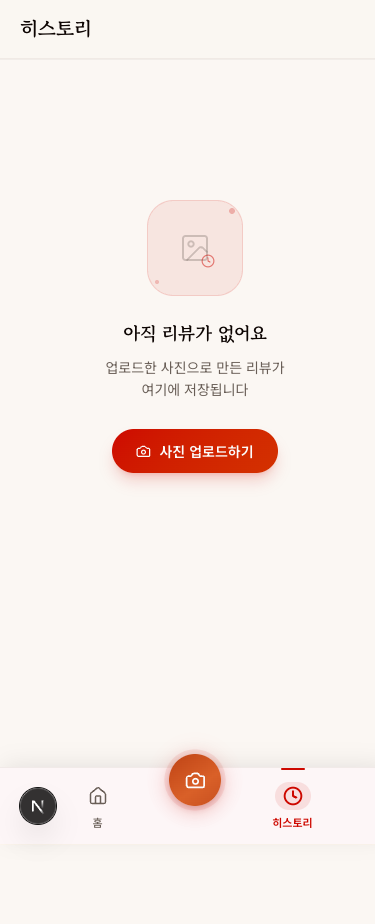
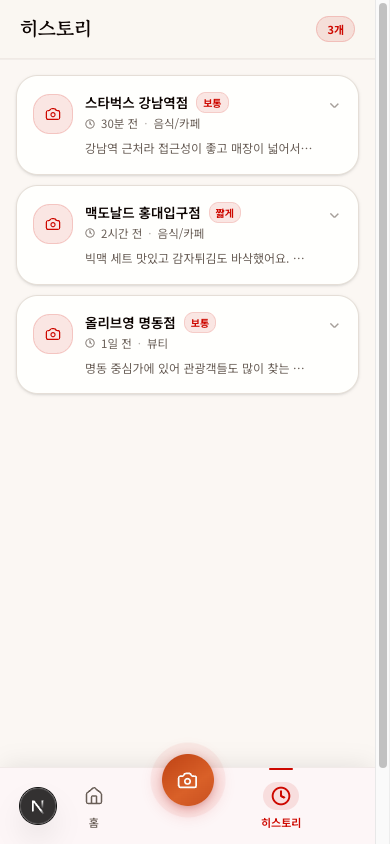
docs: SNS 해시태그 기능 반영하여 README 및 스크린샷 업데이트
- README에 SNS 해시태그 자동 생성 기능 설명 추가 (핵심 기능 3번)
- 서비스 흐름, 목적, 핵심 가치 항목에 해시태그 관련 내용 반영
- 홈·처리·결과·히스토리 화면 스크린샷 최신 버전으로 교체

diff --git a/README.md b/README.md
@@ -1,6 +1,6 @@
 # SnapReview
 
-사진 한 장으로 한국어 리뷰 초안을 생성하는 모바일 우선 PWA입니다. 사용자는 음식, 공간, 제품, 소품 등 어떤 이미지든 업로드할 수 있고, SnapReview는 이미지를 분석해 짧게, 보통, 상세 3가지 길이의 리뷰를 바로 복사 가능한 형태로 제공합니다.
+사진 한 장으로 한국어 리뷰 초안을 생성하는 모바일 우선 PWA입니다. 음식, 공간, 제품, 소품 등 어떤 이미지든 업로드하면 AI가 이미지를 분석해 짧게·보통·상세 3가지 길이의 리뷰와 SNS 해시태그를 즉시 제공합니다.
 
 ## 목차
 
@@ -20,19 +20,21 @@
 
 ### 기획 의도
 
-리뷰 작성은 반복적이지만, 사진 속 핵심 포인트를 자연스럽게 문장으로 옮기는 일은 생각보다 번거롭습니다. SnapReview는 이 지점을 해결하기 위해 만들어졌습니다. 사용자는 사진만 업로드하면 되고, 서비스는 이미지의 대상, 특징, 분위기를 읽어 각 플랫폼에 붙여넣기 쉬운 한국어 리뷰를 생성합니다.
+리뷰 작성은 반복적이지만, 사진 속 핵심 포인트를 자연스럽게 문장으로 옮기는 일은 생각보다 번거롭습니다. SnapReview는 이 지점을 해결하기 위해 만들어졌습니다. 사용자는 사진만 업로드하면 되고, 서비스는 이미지의 대상·특징·분위기를 읽어 각 플랫폼에 붙여넣기 쉬운 한국어 리뷰와 SNS 해시태그를 생성합니다.
 
 ### 목적
 
 - 리뷰 작성 시간을 줄인다.
 - 사진 기반 후기 작성의 진입 장벽을 낮춘다.
 - 네이버, 카카오맵, 구글 리뷰 등 여러 채널에 바로 활용 가능한 문장을 만든다.
+- 인스타그램·네이버·카카오에 바로 붙여넣을 수 있는 SNS 해시태그를 자동 생성한다.
 
 ### 핵심 가치
 
 - 텍스트 입력보다 사진 업로드 중심의 빠른 UX
-- AI 결과를 그대로 쓰지 않고 수정, 재생성, 길이 선택이 가능한 유연한 편집 경험
-- 모바일 웹, 홈 화면 설치, 하단 고정 내비게이션을 고려한 PWA 구조
+- AI 결과를 그대로 쓰지 않고 수정·재생성·길이 선택이 가능한 유연한 편집 경험
+- 리뷰와 함께 최대 20개의 SNS 태그를 즉시 복사할 수 있는 원스톱 콘텐츠 생성
+- 모바일 웹·홈 화면 설치·하단 고정 내비게이션을 고려한 PWA 구조
 
 ## 핵심 기능
 
@@ -44,38 +46,45 @@
 
 ### 2. AI 기반 이미지 분석 + 리뷰 생성
 
-- Gemini Vision이 사진의 핵심 대상, 카테고리, 특징, 분위기를 추출합니다.
-- 같은 요청에서 짧게, 보통, 상세 3가지 버전의 리뷰를 함께 생성합니다.
+- Gemini Vision이 사진의 핵심 대상·카테고리·특징·분위기를 추출합니다.
+- 같은 요청에서 짧게·보통·상세 3가지 버전의 리뷰를 함께 생성합니다.
 - JSON만 응답하도록 프롬프트를 제한해 프런트엔드에서 바로 소비 가능한 구조를 유지합니다.
 
-### 3. 리뷰 수정, 복사, 재생성
+### 3. SNS 해시태그 자동 생성
+
+- 사진 대상·분위기·카테고리를 반영한 해시태그를 최대 20개 자동 생성합니다.
+- 네이버·카카오·인스타그램에 바로 붙여넣을 수 있는 한국어 태그를 제공합니다.
+- 결과 화면에서 원하지 않는 태그는 삭제하고, 직접 태그를 추가할 수 있습니다.
+- 전체 태그를 한 번에 클립보드로 복사할 수 있습니다.
+
+### 4. 리뷰 수정·복사·재생성
 
 - 결과 화면에서 길이별 탭 전환이 가능합니다.
 - 추출된 정보와 생성된 리뷰를 직접 수정할 수 있습니다.
 - 재생성 API를 통해 같은 사진 맥락에서 다른 표현의 리뷰를 다시 받을 수 있습니다.
 
-### 4. 히스토리 저장
+### 5. 히스토리 저장
 
 - 복사 시점의 결과를 `localStorage`에 저장합니다.
 - 최근 히스토리를 다시 열어 길이별 리뷰를 복사하거나 삭제할 수 있습니다.
 - Supabase 세션 ID를 함께 저장해 서버 저장 데이터와 연결할 수 있도록 설계했습니다.
 
-### 5. PWA 경험
+### 6. PWA 경험
 
 - `manifest`와 서비스 워커를 통해 홈 화면 설치가 가능합니다.
-- 모바일 안전 영역과 하단 플로팅 액션, 하단 탭 내비게이션을 고려한 레이아웃입니다.
+- 모바일 안전 영역과 하단 플로팅 액션·하단 탭 내비게이션을 고려한 레이아웃입니다.
 
 ## 서비스 흐름
 
 ```text
 사용자 사진 선택
-→ 클라이언트 전처리(HEIC 변환, 리사이즈, 압축)
+→ 클라이언트 전처리 (HEIC 변환, 리사이즈, 압축)
 → /processing 진입
 → /api/process 호출
 → Supabase Storage 업로드
-→ Gemini Vision 분석 + 리뷰 3종 생성
+→ Gemini Vision 분석 + 리뷰 3종 + SNS 태그 20개 생성
 → receipt_sessions 저장
-→ /result에서 편집/복사/재생성
+→ /result에서 태그 편집 · 리뷰 수정/복사/재생성
 → 복사 시 localStorage 히스토리 저장
 → /history에서 재사용
 ```
@@ -85,9 +94,10 @@
 1. 사용자는 홈에서 사진을 업로드하거나 카메라로 바로 촬영합니다.
 2. 클라이언트는 파일을 전처리한 뒤 처리 화면으로 이동합니다.
 3. 처리 화면은 단계별 진행 상태를 보여주면서 API 응답을 기다립니다.
-4. 결과 화면에서 AI가 읽은 정보와 생성된 리뷰 3종을 확인합니다.
-5. 사용자는 리뷰를 수정하거나 재생성한 뒤 원하는 길이의 문장을 복사합니다.
-6. 복사된 결과는 히스토리에 저장되어 이후에도 다시 활용할 수 있습니다.
+4. 결과 화면에서 AI가 읽은 정보·생성된 리뷰 3종·SNS 태그 20개를 확인합니다.
+5. 사용자는 태그를 편집(삭제·추가)하고 전체 태그를 한 번에 복사합니다.
+6. 원하는 길이의 리뷰를 수정하거나 재생성한 뒤 복사합니다.
+7. 복사된 결과는 히스토리에 저장되어 이후에도 다시 활용할 수 있습니다.
 
 ## 주요 화면
 
@@ -108,7 +118,7 @@
     <tr>
       <td align="center">사진 업로드 · 드래그 앤 드롭<br>모바일 카메라 촬영</td>
       <td align="center">3단계 진행 상태 시각화<br>스캐너 라인 애니메이션</td>
-      <td align="center">리뷰 탭 전환 · 편집<br>재생성 · 복사</td>
+      <td align="center">리뷰 탭 전환 · 편집<br>SNS 태그 편집 · 복사</td>
       <td align="center">복사 이력 재열람<br>로그인 없이 로컬 저장</td>
     </tr>
   </table>
@@ -118,14 +128,14 @@
 
 | 카테고리 | 기술 | 사용 이유 |
 | --- | --- | --- |
-| Frontend | Next.js 16.2.2 App Router | 화면, API Route, PWA 구성을 한 저장소에서 관리하기 적합합니다. |
+| Frontend | Next.js 16.2.2 App Router | 화면·API Route·PWA 구성을 한 저장소에서 관리하기 적합합니다. |
 | Frontend | React 19 | 상태 기반 인터랙션과 클라이언트 편집 경험을 자연스럽게 구현할 수 있습니다. |
-| Frontend | TypeScript | AI 응답 구조, 상태 객체, 히스토리 스키마를 명시적으로 관리할 수 있습니다. |
+| Frontend | TypeScript | AI 응답 구조·상태 객체·히스토리 스키마를 명시적으로 관리할 수 있습니다. |
 | UI | Tailwind CSS v4 | 모바일 우선 화면을 빠르게 구현하고 디자인 토큰을 일관되게 적용할 수 있습니다. |
-| UI | shadcn/ui, Base UI, Sonner, Lucide React | 탭, 다이얼로그, 토스트, 아이콘 같은 상호작용 UI를 조합형으로 구성할 수 있습니다. |
+| UI | shadcn/ui, Base UI, Sonner, Lucide React | 탭·다이얼로그·토스트·아이콘 같은 상호작용 UI를 조합형으로 구성할 수 있습니다. |
 | State | Zustand | 업로드 세션 상태와 히스토리 상태를 가볍게 분리해 관리하기 좋습니다. |
 | Backend | Next.js Route Handlers | 별도 서버 없이 이미지 처리와 AI 호출을 서버 측에서 수행할 수 있습니다. |
-| AI | `@google/genai` + Gemini 2.5 Flash | 이미지 이해와 한국어 리뷰 생성 작업을 한 번에 처리할 수 있습니다. |
+| AI | `@google/genai` + Gemini 2.5 Flash | 이미지 이해·한국어 리뷰 생성·SNS 태그 생성 작업을 한 번에 처리할 수 있습니다. |
 | Database | Supabase PostgreSQL | 처리 세션 메타데이터와 생성 결과를 구조화해 저장할 수 있습니다. |
 | Storage | Supabase Storage | 업로드 이미지를 외부 객체 저장소에 보관할 수 있습니다. |
 | Infra / DevOps | next-pwa, Workbox | 홈 화면 설치와 캐싱 전략을 통해 앱 같은 사용성을 제공합니다. |
@@ -140,13 +150,13 @@
 Client
   ├─ app/page.tsx
   ├─ app/processing/page.tsx
-  ├─ app/result/page.tsx
+  ├─ app/result/page.tsx        ← 리뷰 편집 + SNS 태그 편집
   ├─ app/history/page.tsx
   ├─ store/receipt.ts
   └─ store/history.ts
 
 Server
-  ├─ app/api/process/route.ts
+  ├─ app/api/process/route.ts   ← 이미지 분석 + 리뷰 + 태그 생성
   ├─ app/api/regenerate/route.ts
   └─ lib/supabase/server.ts
 
@@ -162,38 +172,52 @@ External Services
 
 - `lib/image-utils.ts`는 브라우저에서만 동작합니다.
 - iOS WebKit은 HEIC를 네이티브 처리할 수 있기 때문에 직접 디코딩 흐름을 사용합니다.
-- 비 iOS 환경에서는 `heic2any`로 JPEG 변환 후 캔버스로 최대 1600px, 품질 0.85 압축을 수행합니다.
+- 비 iOS 환경에서는 `heic2any`로 JPEG 변환 후 캔버스에서 최대 1600px·품질 0.85 압축을 수행합니다.
 - 이 단계는 업로드 실패율 감소와 응답 속도 개선에 직접 연결됩니다.
 
 #### 2. 세션 상태 관리
 
 - `store/receipt.ts`는 현재 작업 중인 단일 업로드 세션을 담당합니다.
-- 이미지 파일, 프리뷰 URL, 진행 단계, 추출 정보, 생성 리뷰, 세션 ID, 에러 메시지를 함께 관리합니다.
+- 이미지 파일·프리뷰 URL·진행 단계·추출 정보·생성 리뷰·세션 ID·에러 메시지를 함께 관리합니다.
 - 홈에서 업로드된 파일은 처리 화면으로 이어지고, 처리 완료 후 결과 화면에서 동일 상태를 참조합니다.
 
 #### 3. AI 처리 파이프라인
 
 - `/api/process`는 `multipart/form-data`로 이미지를 받습니다.
 - 서버는 우선 이미지를 Supabase Storage에 업로드하고 공개 URL을 확보합니다.
-- 이후 Gemini Vision에 이미지와 프롬프트를 함께 전달해 `extracted`와 `reviews`를 한 번에 생성합니다.
+- 이후 Gemini Vision에 이미지와 프롬프트를 함께 전달해 `extracted`(대상·카테고리·포인트·분위기·**태그 20개**)와 `reviews`를 한 번에 생성합니다.
 - 응답은 코드 블록 제거 후 JSON 정규식 추출로 파싱합니다.
-- 결과는 `receipt_sessions` 테이블에 저장하고, 프런트엔드에는 `sessionId`, `extractedInfo`, `reviews`를 반환합니다.
+- 결과는 `receipt_sessions` 테이블에 저장하고, 프런트엔드에는 `sessionId`·`extractedInfo`·`reviews`를 반환합니다.
 
-#### 4. 리뷰 재생성 전략
+#### 4. SNS 태그 처리 전략
+
+- 프롬프트에서 `#` 포함 한국어 태그 정확히 20개를 강제합니다.
+- `ExtractedInfo.tags: string[]`에 저장되며, 결과 화면에서 `ocrInfo.tags` 상태로 관리됩니다.
+- 태그 삭제·추가·전체 복사를 인라인 UI로 처리하며, 최대 20개 제한을 UI 수준에서 강제합니다.
+- 전체 태그는 공백으로 join해 클립보드에 복사하므로 SNS에 그대로 붙여넣기할 수 있습니다.
+
+#### 5. 리뷰 재생성 전략
 
 - `/api/regenerate`는 이미지 자체를 다시 보내지 않고, 이미 추출한 구조화 정보와 이전 리뷰를 기반으로 새 문장을 요청합니다.
 - 비용과 지연 시간을 줄이면서도 다른 어조와 관점의 출력을 얻기 위한 구조입니다.
 
-#### 5. 히스토리 저장 전략
+#### 6. 히스토리 저장 전략
 
 - 히스토리는 서버가 아니라 `localStorage`에 저장합니다.
 - 사용자가 실제로 복사한 시점의 결과만 저장하므로, 생성만 하고 쓰지 않은 결과가 쌓이지 않습니다.
 - `MAX_ITEMS = 50` 제한을 둬 브라우저 저장 공간을 무한정 사용하지 않도록 했습니다.
 
+#### 7. Gemini 모델 폴백
+
+- `GEMINI_MODELS` 환경 변수에 쉼표로 구분된 모델 우선순위를 설정합니다.
+- quota 초과(429)나 503 UNAVAILABLE 오류 발생 시 다음 모델로 자동 폴백합니다.
+- 모든 모델이 실패하면 429 응답을 반환합니다.
+
 ### 설계 포인트
 
 - AI 응답은 자유 텍스트가 아니라 구조화된 JSON으로 강제해 UI와 결합하기 쉽게 만들었습니다.
 - 업로드부터 결과까지 상태를 서버 세션이 아니라 클라이언트 스토어로 이어 UX 전환 비용을 줄였습니다.
+- 태그 편집은 별도 다이얼로그 없이 인라인으로 처리해 모바일에서 빠른 편집 경험을 제공합니다.
 - PWA와 모바일 레이아웃을 우선해 앱처럼 빠르게 접근하고 사용할 수 있게 구성했습니다.
 
 ## 폴더 구조
@@ -202,11 +226,11 @@ External Services
 snap-review/
 ├─ app/
 │  ├─ api/
-│  │  ├─ process/route.ts
+│  │  ├─ process/route.ts        ← 이미지 분석 + 리뷰 + SNS 태그 생성
 │  │  └─ regenerate/route.ts
 │  ├─ history/page.tsx
 │  ├─ processing/page.tsx
-│  ├─ result/page.tsx
+│  ├─ result/page.tsx            ← 리뷰 + 태그 편집 · 복사
 │  ├─ globals.css
 │  ├─ layout.tsx
 │  └─ manifest.ts
@@ -216,17 +240,18 @@ snap-review/
 ├─ lib/
 │  ├─ mock/
 │  ├─ supabase/
+│  ├─ gemini.ts                  ← 모델 폴백 로직
 │  ├─ image-utils.ts
 │  └─ storage.ts
 ├─ store/
 │  ├─ history.ts
 │  └─ receipt.ts
 ├─ types/
-│  └─ receipt.ts
+│  └─ receipt.ts                 ← ExtractedInfo.tags 포함
 ├─ docs/
 │  ├─ PRD.md
 │  └─ ROADMAP.md
-├─ public/
+├─ assets/                       ← 화면 캡처 이미지
 └─ README.md
 ```
 
@@ -235,15 +260,15 @@ snap-review/
 - `app/`
   Next.js App Router 기반 페이지와 서버 라우트를 함께 둡니다.
 - `components/layout/`
-  하단 탭, 플로팅 업로드 버튼 등 앱 공통 레이아웃 요소를 관리합니다.
+  하단 탭·플로팅 업로드 버튼 등 앱 공통 레이아웃 요소를 관리합니다.
 - `components/ui/`
-  탭, 카드, 다이얼로그 같은 재사용 UI primitives를 모아둡니다.
+  탭·카드·다이얼로그 같은 재사용 UI primitives를 모아둡니다.
 - `lib/`
-  이미지 전처리, 스토리지 접근, Supabase 클라이언트, 목업 데이터 등 로직성 유틸을 분리합니다.
+  이미지 전처리·스토리지 접근·Supabase 클라이언트·Gemini 폴백·목업 데이터 등 로직성 유틸을 분리합니다.
 - `store/`
   업로드 세션과 히스토리 상태를 Zustand로 관리합니다.
 - `types/`
-  AI 응답과 로컬 저장 스키마의 타입 기준점을 정의합니다.
+  AI 응답과 로컬 저장 스키마의 타입 기준점을 정의합니다. `ExtractedInfo`에 `tags: string[]`이 포함됩니다.
 - `docs/`
   PRD와 로드맵 문서를 통해 기획과 구현 범위를 추적합니다.
 
@@ -306,11 +331,39 @@ if (!jsonMatch) {
 }
 
 const parsed = JSON.parse(jsonMatch[0]);
+const extracted: ExtractedInfo = {
+  subjectName: parsed.extracted?.subjectName ?? "사진 속 장면",
+  category:    parsed.extracted?.category ?? "기타",
+  keyDetails:  parsed.extracted?.keyDetails ?? "",
+  moodAndContext: parsed.extracted?.moodAndContext ?? "",
+  tags: Array.isArray(parsed.extracted?.tags) ? parsed.extracted.tags.slice(0, 20) : [],
+};
 ```
 
-AI 출력이 항상 깔끔한 JSON이라고 가정하지 않고, 마크다운 코드 블록을 제거한 뒤 실제 객체 문자열만 추출합니다. 생성형 AI를 실서비스 흐름에 붙일 때 필요한 방어 코드입니다.
+AI 출력이 항상 깔끔한 JSON이라고 가정하지 않고, 마크다운 코드 블록을 제거한 뒤 실제 객체 문자열만 추출합니다. `tags`는 최대 20개로 슬라이스해 클라이언트 상태에 그대로 전달합니다.
 
-### 2. 리뷰 결과를 상태로 연결
+### 2. SNS 태그 인라인 편집
+
+```ts
+// 태그 추가: # 접두사 자동 보정
+const handleTagAdd = () => {
+  const raw = newTagInput.trim();
+  if (!raw) { setAddingTag(false); setNewTagInput(""); return; }
+  const tag = raw.startsWith("#") ? raw : `#${raw}`;
+  setOcrInfo((prev) => ({ ...prev, tags: [...prev.tags, tag].slice(0, 20) }));
+  setNewTagInput("");
+  setAddingTag(false);
+};
+
+// 전체 태그 복사: 공백 join으로 SNS에 바로 붙여넣기
+const handleTagsCopy = async () => {
+  await navigator.clipboard.writeText(ocrInfo.tags.join(" "));
+};
+```
+
+태그 입력 시 `#` 없이 입력해도 자동으로 붙여줍니다. 복사는 공백으로 이어 붙여 SNS 플랫폼의 태그 파싱 방식과 호환됩니다.
+
+### 3. 리뷰 결과를 상태로 연결
 
 ```ts
 setResult(result.extractedInfo, result.reviews, result.sessionId);
@@ -319,7 +372,7 @@ router.replace("/result");
 
 처리 화면은 API 응답을 받은 뒤 결과를 글로벌 스토어에 기록하고, 바로 결과 화면으로 이동합니다. 페이지 간 데이터 전달을 URL 파라미터나 폼 재전송에 의존하지 않는 구조입니다.
 
-### 3. 로컬 히스토리 최대 개수 제한
+### 4. 로컬 히스토리 최대 개수 제한
 
 ```ts
 export function saveHistory(items: ReviewHistory[]): void {
@@ -333,12 +386,13 @@ export function saveHistory(items: ReviewHistory[]): void {
 }
 ```
 
-로컬 저장소는 간단하지만 무한정 쌓이면 UX와 디버깅 모두 나빠집니다. 그래서 최대 50개로 제한해 브라우저 저장 비용을 통제합니다.
+로컬 저장소는 간단하지만 무한정 쌓이면 UX와 디버깅 모두 나빠집니다. 최대 50개로 제한해 브라우저 저장 비용을 통제합니다.
 
 ## 향후 개선 포인트
 
 - 익명 업로드 구조에 맞는 Supabase Storage 정책과 rate limit을 더 정교하게 다듬을 수 있습니다.
-- 리뷰 품질 비교를 위해 재생성 전략에 tone, perspective, intent 옵션을 추가할 수 있습니다.
+- 리뷰 품질 비교를 위해 재생성 전략에 tone·perspective·intent 옵션을 추가할 수 있습니다.
+- 히스토리에 태그 정보도 함께 저장해 과거 게시물 태그를 재사용할 수 있도록 개선할 수 있습니다.
 - E2E 테스트를 도입해 업로드부터 복사까지의 핵심 사용자 플로우를 자동 검증할 수 있습니다.
 
 ## 문서 참고
